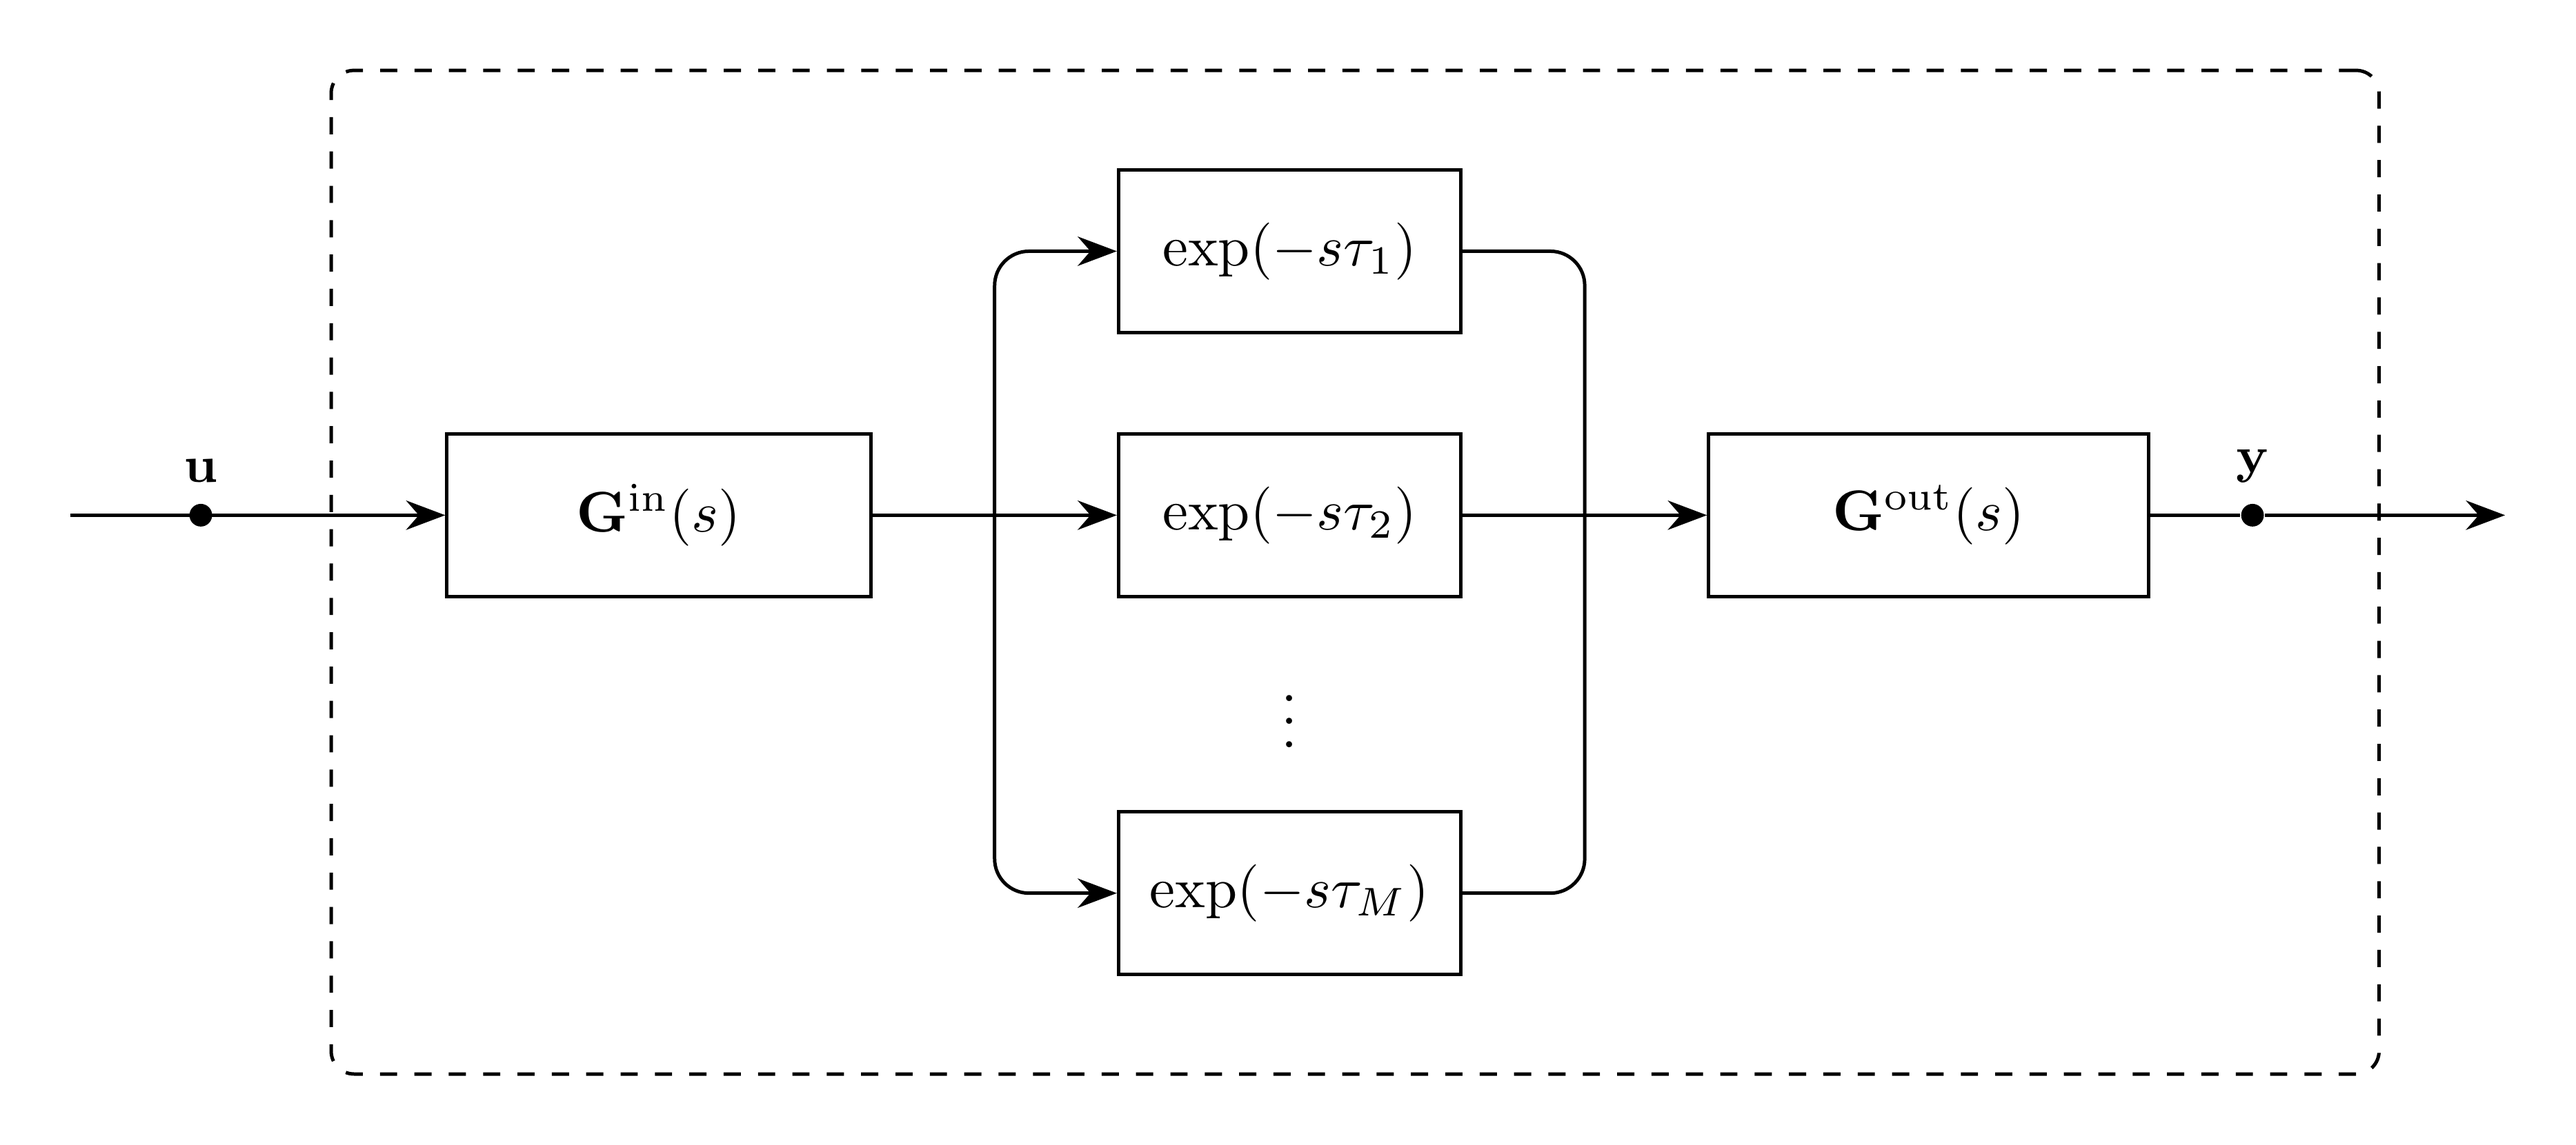
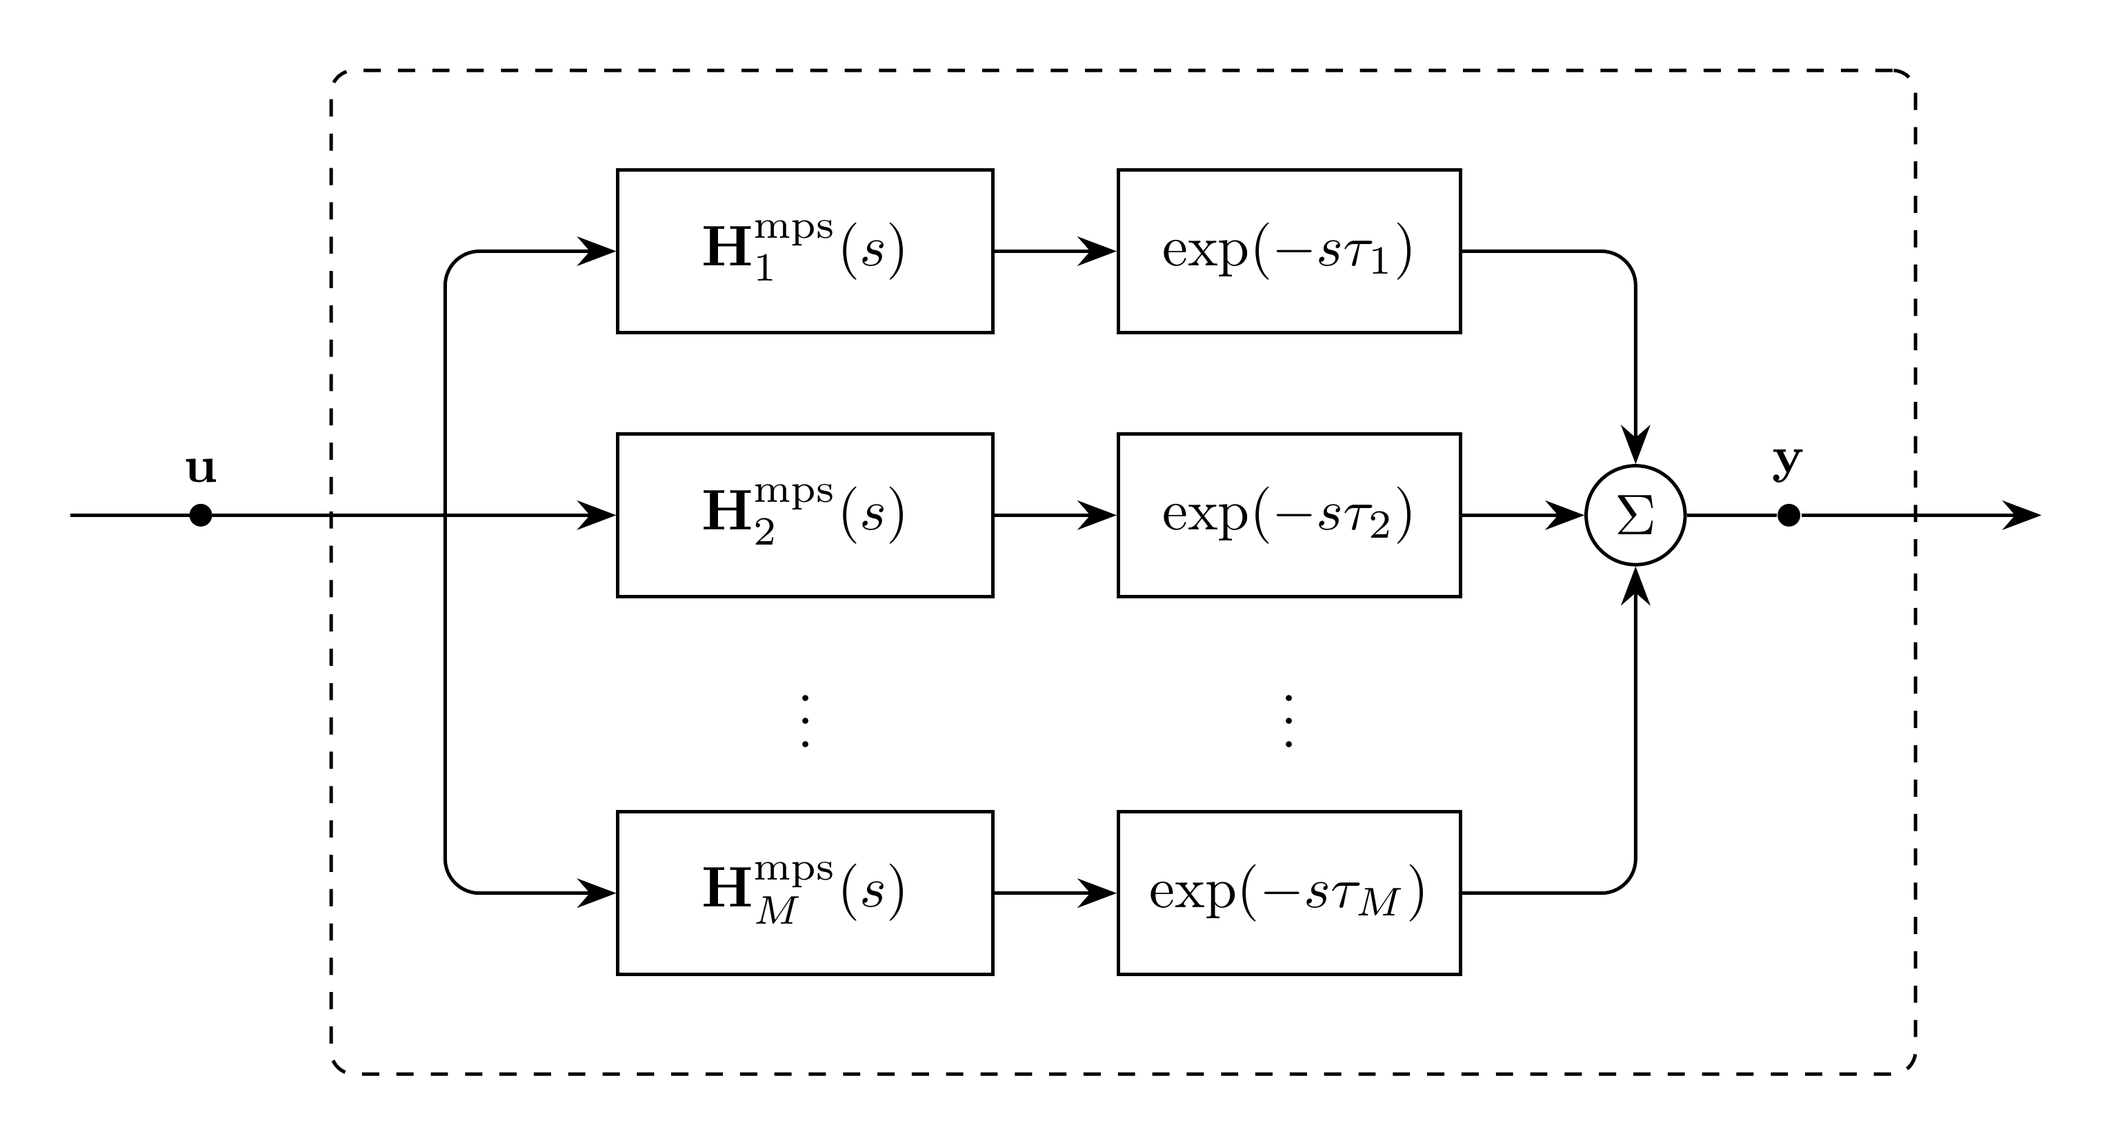
from lukel/math-fixes-dev propagation func

diff --git a/docs/Figures/EMT/Propagation/diagram.tex b/docs/Figures/EMT/Propagation/diagram.tex
@@ -4,44 +4,47 @@
 \begin{document}
 \begin{tikzpicture}[emt diagram]
 
-% Three-block current propagation: fitted input map -> modal delays -> fitted output map
+% Per-mode current propagation: fitted minimum-phase-shift factor -> modal delay,
+% summed over modes
 \node[block, minimum width=2.1cm] (D2) {$\exp(-s\tau_2)$};
 \node[block, minimum width=2.1cm, above=0.6cm of D2] (D1) {$\exp(-s\tau_1)$};
-\node[block, minimum width=2.1cm, below=1.3cm of D2] (DN) {$\exp(-s\tau_M)$};
-\node at ($(D2)!0.5!(DN)$) {$\vdots$};
+\node[block, minimum width=2.1cm, below=1.3cm of D2] (DM) {$\exp(-s\tau_M)$};
+\node at ($(D2)!0.5!(DM)$) {$\vdots$};
 
-\node[block, minimum width=2.6cm, left=1.5cm of D2]
-    (Gin) {$\mathbf{G}^{\mathrm{in}}(s)$};
-\node[block, minimum width=2.7cm, right=1.5cm of D2]
-    (Gout) {$\mathbf{G}^{\mathrm{out}}(s)$};
+\node[block, left=0.75cm of D2] (H2) {$\mathbf{H}^{\mathrm{mps}}_2(s)$};
+\node[block, left=0.75cm of D1] (H1) {$\mathbf{H}^{\mathrm{mps}}_1(s)$};
+\node[block, left=0.75cm of DM] (HM) {$\mathbf{H}^{\mathrm{mps}}_M(s)$};
+\node at ($(H2)!0.5!(HM)$) {$\vdots$};
+
+\foreach \m in {1, 2, M}
+    \draw[->, line] (H\m.east) -- (D\m.west);
 
 % Fan-out from a single internal point
-\coordinate (split) at ($(Gin.east)!0.5!(D2.west)$);
-\draw[line] (Gin.east) -- (split);
-\draw[->, line] (split) -- (D2.west);
-\foreach \b in {D1, DN}
+\coordinate (split) at ($(H2.west)+(-1.05, 0)$);
+\draw[->, line] (split) -- (H2.west);
+\foreach \b in {H1, HM}
     \draw[->, line] (split) |- (\b.west);
 
-% Fan-in to the fitted output map
-\coordinate (join) at ($(D2.east)!0.5!(Gout.west)$);
-\draw[line] (D2.east) -- (join);
-\foreach \b in {D1, DN}
-    \draw[line] (\b.east) -| (join);
-\draw[->, line] (join) -- (Gout.west);
+% Fan-in to summation
+\node[sum, right=0.75cm of D2] (S) {$\Sigma$};
+\draw[->, line] (D2.east) -- (S);
+\foreach \b/\a in {D1/north, DM/south}
+    \draw[->, line] (\b.east) -| (S.\a);
+
+% Input node (owned externally)
+\node[signal, label={[sig]above:$\mathbf{u}$}] (uin)
+    at ($(split)+(-1.5, 0)$) {};
+\draw[line] ($(uin)+(-0.8, 0)$) -- (split);
 
 % Output node (owned by this model) with port arrow out
-\node[signal, label={[sig]above:$\mathbf{y}$}, right=0.55cm of Gout] (yout) {};
-\draw[line] (Gout.east) -- (yout);
+\node[signal, label={[sig]above:$\mathbf{y}$}, right=0.55cm of S]
+    (yout) {};
+\draw[line] (S.east) -- (yout);
 \draw[->, line] (yout) -- ++(1.55, 0);
 
-% Input node (owned externally) with port arrow into this model
-\node[signal, label={[sig]above:$\mathbf{u}$}] (uin)
-    at ($(Gin.west)+(-1.5, 0)$) {};
-\draw[->, line] ($(uin)+(-0.8, 0)$) -- (Gin.west);
-
-% Model enclosure: fixed padding around model-owned blocks and output variable
+% Model enclosure: fixed padding around model-owned paths and output variable
 \begin{scope}[on background layer]
-    \node[operator enclosure, fit=(Gin)(D1)(D2)(DN)(Gout)(yout)] {};
+    \node[operator enclosure, fit=(split)(H1)(H2)(HM)(D1)(D2)(DM)(S)(yout)] {};
 \end{scope}
 
 \end{tikzpicture}

diff --git a/GridKit/Model/EMT/Operators/Shift/Propagation/README.md b/GridKit/Model/EMT/Operators/Shift/Propagation/README.md
@@ -1,8 +1,16 @@
 # Propagation Model
 
 For input units $[u]$, `Propagation` is the $K$-channel current-form propagation
-operator used by `LineDistributed`. It applies a fitted input factor, one scalar
-delay per mode, and a fitted output factor while preserving the input units.
+operator used by `LineDistributed`. Each mode applies a proper rational matrix
+and a scalar transport delay. The mode outputs are summed, preserving the
+input units.
+
+```math
+\begin{aligned}
+\mathbf{H}(s)
+  &= \sum_{m=1}^M \mathbf{H}^\mathrm{mps}_m(s) e^{-s\tau_m}
+\end{aligned}
+```
 
 ## Block Diagram
 
@@ -24,17 +32,19 @@ K \in \mathbb{Z}_{>0}
 
 ### Derived Parameters
 
-The full modal basis has one mode per channel:
+Each entry of `modes` supplies `tau` and a `K`-by-`K` VectorFit coefficient
+set `H`. Modes with the same delay may be grouped into one matrix; consequently
+the number of fitted delay groups need not equal the channel count.
 
 ```math
 \begin{aligned}
-M &= K \\
+M &= \operatorname{size}(\texttt{modes}) \\
 \boldsymbol{\tau} &= [\tau_1,\ldots,\tau_M]^\mathsf T
 \end{aligned}
 ```
 
-The modal delays are produced by the offline propagation fitting and enter
-through the delay bank's `delays` coefficient set.
+The modal delays are produced by the offline propagation fitting. Each scalar
+delay is applied to all $K$ outputs of its corresponding matrix.
 
 ## Model Ports
 
@@ -47,50 +57,26 @@ $\mathbf{y}$ | `out` | Output | $[u]$ | Output vector port | $\mathbf{y} \in \ma
 
 Symbol | Description | Type | Order | JSON | Inputs | Outputs
 ------ | ----------- | ---- | ----- | ---- | ------ | -------
-$\mathbf{g}_\mathrm{in}$ | Input factor | [VectorFit](../../Rational/VectorFit/README.md) | $KQ_{\mathbf{g}_\mathrm{in}}$ | `input` | $\mathbb{R}^K$ | $\mathbb{R}^M$
-$\mathbf{d}$ | Modal delay bank | [Delay](../Delay/README.md) | History | `delays` | $\mathbb{R}^M$ | $\mathbb{R}^M$
-$\mathbf{g}_\mathrm{out}$ | Output factor | [VectorFit](../../Rational/VectorFit/README.md) | $KQ_{\mathbf{g}_\mathrm{out}}$ | `output` | $\mathbb{R}^M$ | $\mathbb{R}^K$
+$\mathbf{h}^{\mathrm{mps}}_m$ | Rational part of mode $m$ | [VectorFit](../../Rational/VectorFit/README.md) | $KQ_m$ | `modes[m].H` | $\mathbb{R}^K$ | $\mathbb{R}^K$
+$\mathbf{d}_m$ | Transport delay of mode $m$ | [Delay](../Delay/README.md) | $K$ algebraic rows and history | `modes[m].tau` | $\mathbb{R}^K$ | $\mathbb{R}^K$
 
-The offline fitting targets and propagation factorization are
-
-```math
-\begin{aligned}
-\mathbf{G}^\mathrm{in}(s)
-  &\approx \mathbf{H}^\mathrm{mps}(s)\mathbf{T}_i^{-1}(s) \\
-\mathbf{G}^\mathrm{out}(s) &\approx \mathbf{T}_i(s) \\
-\mathbf{H}^\mathrm{mps}(s)
-  &= \mathrm{diag}(h_1^\mathrm{mps}(s),\ldots,h_M^\mathrm{mps}(s)) \\
-\mathbf{D}_{\boldsymbol{\tau}}(s)
-  &= \mathrm{diag}(\exp(-s\tau_1),\ldots,\exp(-s\tau_M)) \\
-\mathbf{H}(s)
-  &= \mathbf{T}_i(s)\mathbf{D}_{\boldsymbol{\tau}}(s)
-     \mathbf{H}^\mathrm{mps}(s)\mathbf{T}_i^{-1}(s) \\
-  &\approx \mathbf{G}^\mathrm{out}(s)\mathbf{D}_{\boldsymbol{\tau}}(s)
-     \mathbf{G}^\mathrm{in}(s)
-\end{aligned}
-```
-
-$\mathbf{H}^\mathrm{mps}$ is the diagonal modal minimum-phase-shift propagation
-function with the modal delays removed. The current modal transformation
-$\mathbf{T}_i$ maps modal currents to phase coordinates, and
-$\mathbf{T}_i^{-1}$ maps phase currents to modal coordinates.
 
 ### Submodel Validation
 
-Both rational factors must have stable poles and no term linear in $s$. The
-input factor has algebraic input; the output factor has differential input
-from the modal delay bank.
+Every rational matrix must have stable poles and no term linear in $s$.
+There must be at least one mode, and all delays must be finite and positive.
 
 ```math
-\mathbf{E}^\mathrm{in}=\mathbf{E}^\mathrm{out}=\mathbf{0}
+\mathbf{E}_m=\mathbf{0},\qquad
+\operatorname{Re}(p_{mq})<0,\qquad \tau_m>0
 ```
 
 ### Submodel Wiring
 
 ```math
 \begin{aligned}
-\mathbf{w} &\leftarrow \mathbf{g}_\mathrm{in}[\mathbf{u}] \\
-\mathbf{z} &\leftarrow \mathbf{d}[\mathbf{w}]
+\mathbf{w}_m &\leftarrow \mathbf{h}^{\mathrm{mps}}_m[\mathbf{u}] \\
+\mathbf{z}_m &\leftarrow \mathbf{d}_m[\mathbf{w}_m]
 \end{aligned}
 ```
 
@@ -133,12 +119,31 @@ None.
 ### External Equations
 
 ```math
-\mathbf{y} \leftarrow \mathbf{g}_\mathrm{out}[\mathbf{z}]
+\mathbf{y} \leftarrow \sum_{m=1}^M \mathbf{z}_m
 ```
 
 ## Initialization
 
-TBD
+For a supplied constant or harmonic input prehistory, initialize each rational
+matrix with the same input value, derivative, and angular frequency. Its
+frequency response gives the filtered prehistory supplied to the delay bank.
+The two propagation directions of a line use independent instances.
+
+For $\omega>0$, write
+$\widehat{\mathbf{u}}=\mathbf{u}(t_0)-j\mathbf{u}'(t_0)/\omega$. Then
+
+```math
+\begin{aligned}
+\widehat{\mathbf{w}}_m
+  &\leftarrow \mathbf{H}^{\mathrm{mps}}_m(j\omega)\widehat{\mathbf{u}} \\
+\mathbf{y}(t_0)
+  &\leftarrow \operatorname{Re}\!\left(
+    \sum_{m=1}^M e^{-j\omega\tau_m}\widehat{\mathbf{w}}_m\right).
+\end{aligned}
+```
+
+At $\omega=0$, the supplied derivative must vanish and the prehistory is
+constant. A zero prehistory represents an initially unenergized line.
 
 ## Monitors
 
